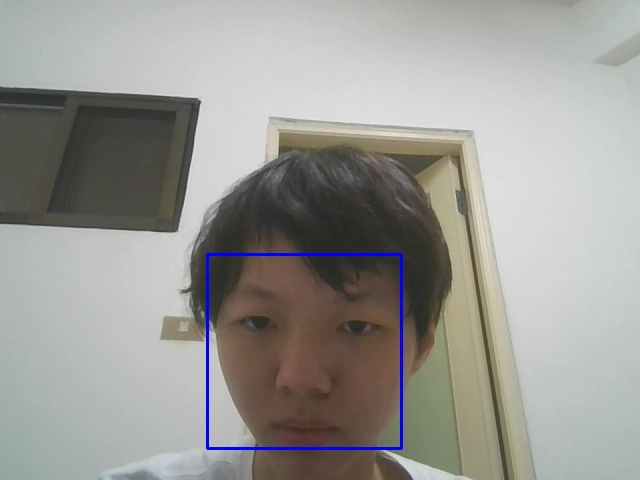
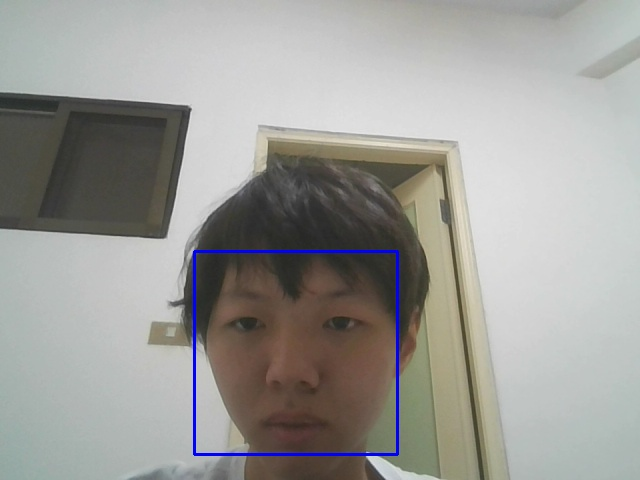
調整x y w h

Changed region(s): [[0.0, 0.1562, 0.8438, 1.0], [0.4062, 0.75, 0.5, 0.8125], [0.9062, 0.125, 0.9688, 0.1875]]

diff --git a/code/opencv.py b/code/opencv.py
@@ -3,10 +3,10 @@ import numpy as np
 
 
 class Camera:
-    _x = 0
-    _y = 0
-    _w = 0
-    _h = 0
+    max_x = 0
+    max_y = 0
+    max_w = 0
+    max_h = 0
 
     def captureFace(self):
         faceCascade = cv2.CascadeClassifier(
@@ -20,8 +20,10 @@ class Camera:
         cap.set(10, 100)
 
         while True:
-            max_w = 0
-            max_h = 0
+            _x = 0
+            _y = 0
+            _w = 0
+            _h = 0
 
             success, frame = cap.read()
             frame = cv2.flip(frame, 1)
@@ -32,23 +34,28 @@ class Camera:
 
             faces = faceCascade.detectMultiScale(gray, 1.1, 4)
             for (x, y, w, h) in faces:
-                if w * h > max_w * max_h:
-                    max_w = w
-                    max_h = h
-                    self._x = x
-                    self._y = y
-                    self._w = w
-                    self._h = h
+                if w * h > _w * _h:
+                    _x = x
+                    _y = y
+                    _w = w
+                    _h = h
+
+            if _w * _h > 15000:
+                self.max_x = _x
+                self.max_y = _y
+                self.max_w = _w
+                self.max_h = _h
+            print(self.max_w * self.max_h)
 
             # webcam畫面
             frame = cv2.rectangle(
-                frame, (self._x, self._y), (self._x+self._w, self._y+self._h), (255, 0, 0), 2)
+                frame, (self.max_x, self.max_y), (self.max_x+self.max_w, self.max_y+self.max_h), (255, 0, 0), 2)
             cv2.imshow("video", frame)
 
             # 臉的框框
             face = np.zeros((480, 640, 3), np.uint8)
             face = cv2.rectangle(
-                face, (self._x, self._y), (self._x+self._w, self._y+self._h), (255, 0, 0), 2)
+                face, (self.max_x, self.max_y), (self.max_x+self.max_w, self.max_y+self.max_h), (255, 0, 0), 2)
             cv2.imshow("face", face)
 
             if cv2.waitKey(1) & 0xFF == ord('q'):
@@ -59,9 +66,9 @@ class Camera:
         cv2.destroyAllWindows()
 
 
-# if __name__ == '__main__':
-#     camera = Camera()
-#     camera.captureFace()
+if __name__ == '__main__':
+    camera = Camera()
+    camera.captureFace()
 
 
 # cv2.imshow("gray", gray)

diff --git a/code/main.py b/code/main.py
@@ -1,7 +1,7 @@
 import multiprocessing as mp
 import time
 from opencv import *
-from scene import *
+# from scene import *
 
 if __name__ == '__main__':
     camera = Camera()
@@ -9,9 +9,8 @@ if __name__ == '__main__':
     process.start()
 
     # view = Scene()
-
     # ball = Ball(view.floor, view.net)
-
     # ball.throwBall()
 
     process.join()
+    print("done")

diff --git a/code/scene.py b/code/scene.py
@@ -47,4 +47,7 @@ class Ball:
 
             t += dt
 
+
+if __name__ == '__main__':
+    print("test import")
 #print(t, ball.pos.y)
